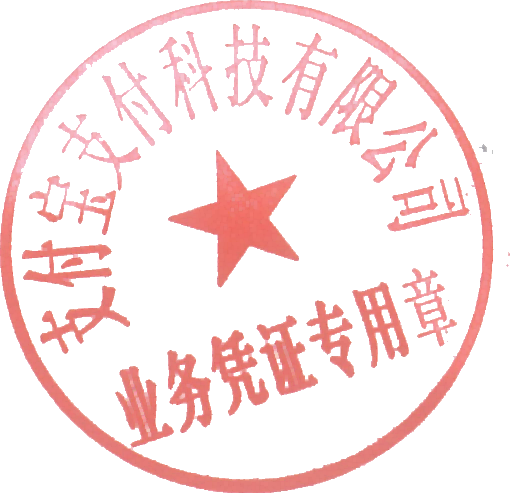
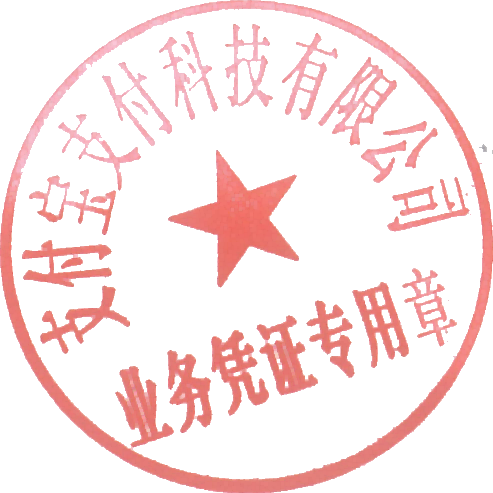
修改代码

diff --git a/src/pdf_builder.py b/src/pdf_builder.py
@@ -142,10 +142,8 @@ def create_end():
     # vSpace: 设置为负数（例如 -2*cm），可以让印章向上“飘”，覆盖到上一行文字上
     stamp_img.hAlign = 'LEFT'
 
-    left_push = Spacer(10*cm, 0) 
 
     up_pull = Spacer(1, -2.5*cm) 
-    elements.append(left_push)
     elements.append(up_pull)
     elements.append(stamp_img)
     return elements